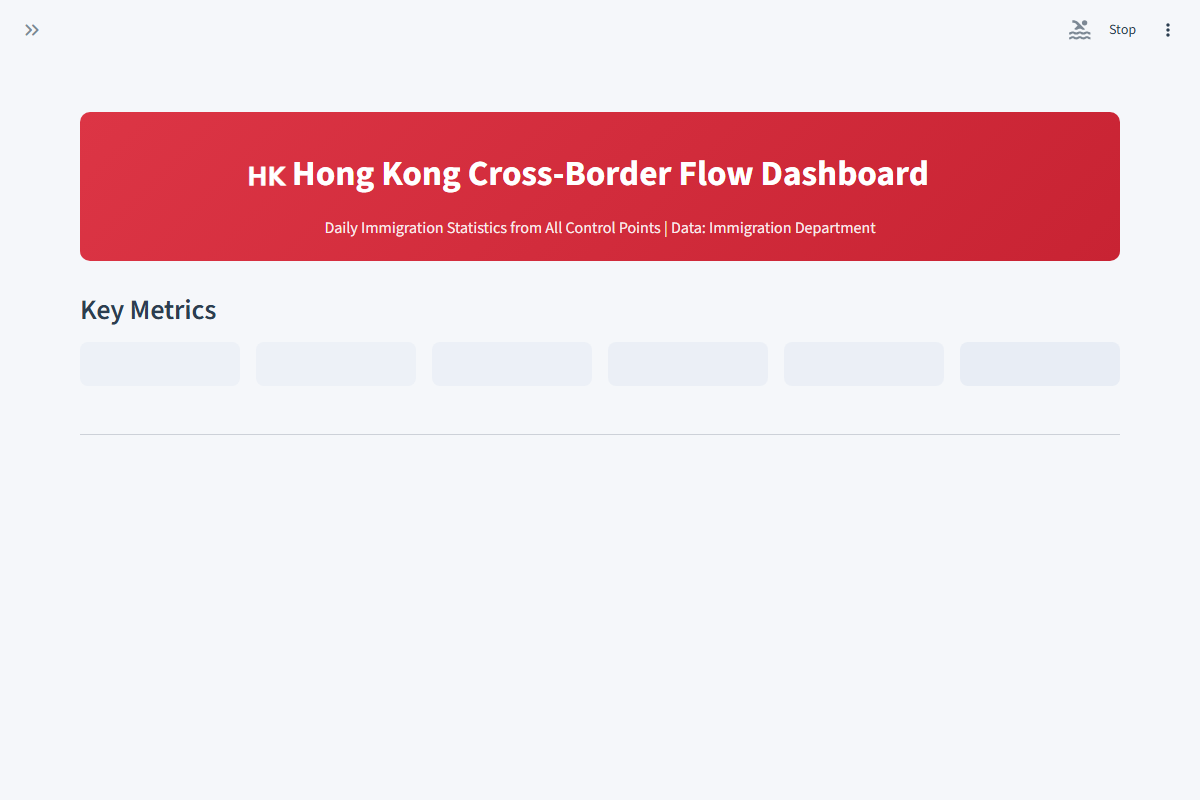
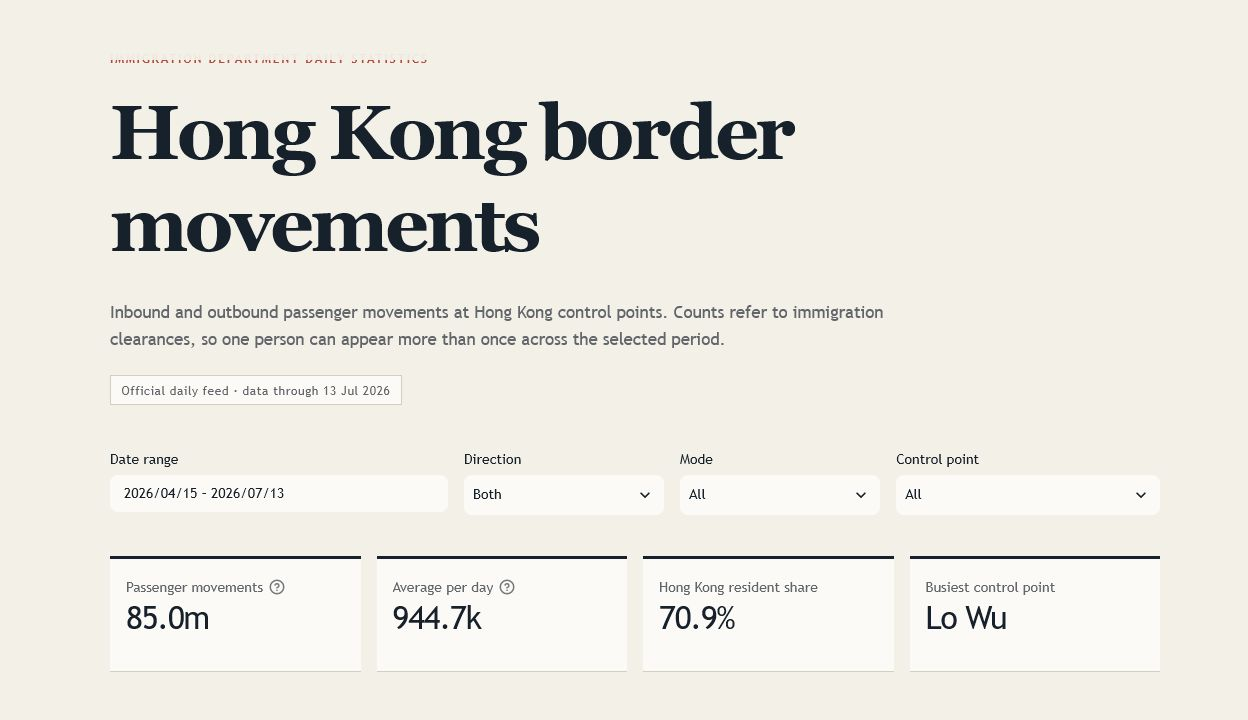
Refresh MTR and border movement projects

diff --git a/index.html b/index.html
@@ -131,12 +131,12 @@
             <div class="project-grid">
                 <article class="project-card">
                     <a class="card-image" href="https://hk-mtr-dashboard.onrender.com/" target="_blank" rel="noopener noreferrer" aria-label="Open the Hong Kong MTR dashboard">
-                        <img src="mtr_preview.png" alt="Hong Kong MTR network dashboard" width="1600" height="1200" loading="lazy" decoding="async">
+                        <img src="mtr_preview.png?v=20260714" alt="Hong Kong MTR network, fare and accessibility explorer" width="1280" height="720" loading="lazy" decoding="async">
                     </a>
                     <div class="card-body">
                         <p class="card-number">03 / Transport</p>
-                        <h3>Hong Kong MTR</h3>
-                        <p>A network view of more than 100 stations, fares, ridership history, and accessibility information.</p>
+                        <h3>MTR network, fares and access</h3>
+                        <p>A network and fare explorer covering 100 MTR stations, interchange links and 36 accessibility features. Public transport patronage is included as wider context.</p>
                         <div class="project-actions">
                             <a class="project-link" href="https://hk-mtr-dashboard.onrender.com/" target="_blank" rel="noopener noreferrer">Open <span aria-hidden="true">↗</span></a>
                             <a class="source-link" href="https://github.com/AlekSwiderski/hk-mtr-dashboard" target="_blank" rel="noopener noreferrer">Source</a>
@@ -146,12 +146,12 @@
 
                 <article class="project-card">
                     <a class="card-image" href="https://hk-cross-border-dashboard.onrender.com/" target="_blank" rel="noopener noreferrer" aria-label="Open the Hong Kong cross-border dashboard">
-                        <img src="cross_border_preview.png" alt="Hong Kong passenger flow dashboard" width="1200" height="800" loading="lazy" decoding="async">
+                        <img src="cross_border_preview.png?v=20260714" alt="Hong Kong border movements dashboard" width="1280" height="720" loading="lazy" decoding="async">
                     </a>
                     <div class="card-body">
                         <p class="card-number">04 / Immigration</p>
-                        <h3>Cross-border passenger flow</h3>
-                        <p>Daily arrivals and departures across Hong Kong control points, split by passenger group and transport mode.</p>
+                        <h3>Hong Kong border movements</h3>
+                        <p>Daily arrivals and departures across Hong Kong control points, with a breakdown of Hong Kong residents and visitors. The app reads the latest government file when it starts.</p>
                         <div class="project-actions">
                             <a class="project-link" href="https://hk-cross-border-dashboard.onrender.com/" target="_blank" rel="noopener noreferrer">Open <span aria-hidden="true">↗</span></a>
                             <a class="source-link" href="https://github.com/AlekSwiderski/hk-cross-border-dashboard" target="_blank" rel="noopener noreferrer">Source</a>